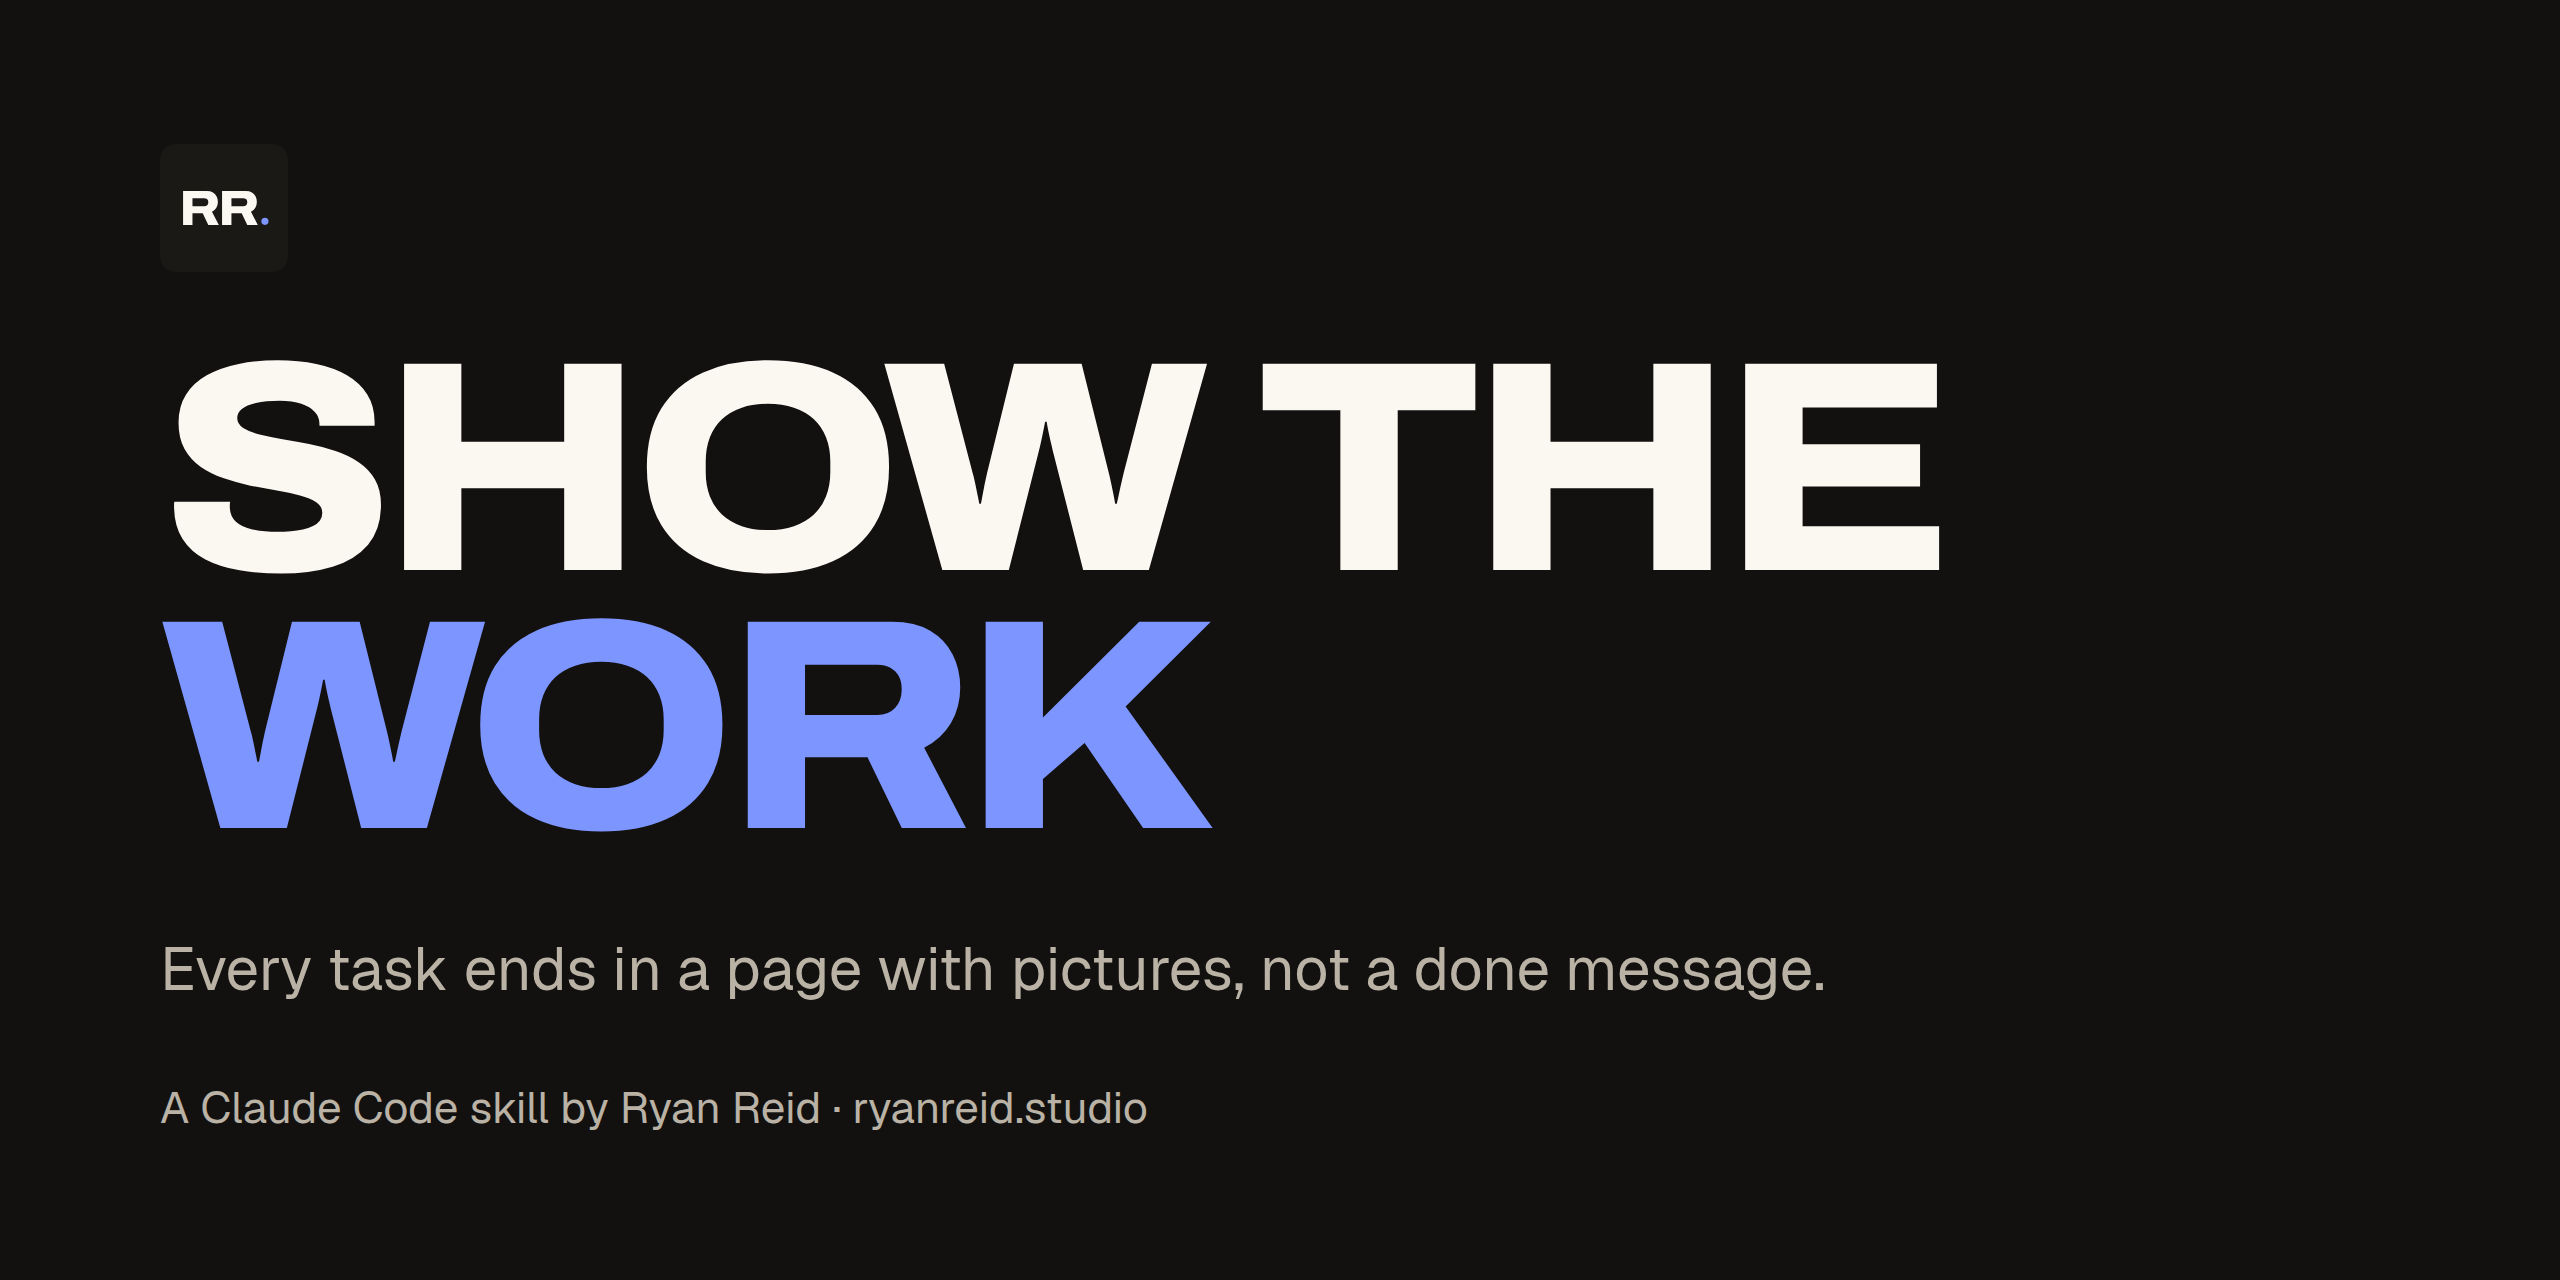
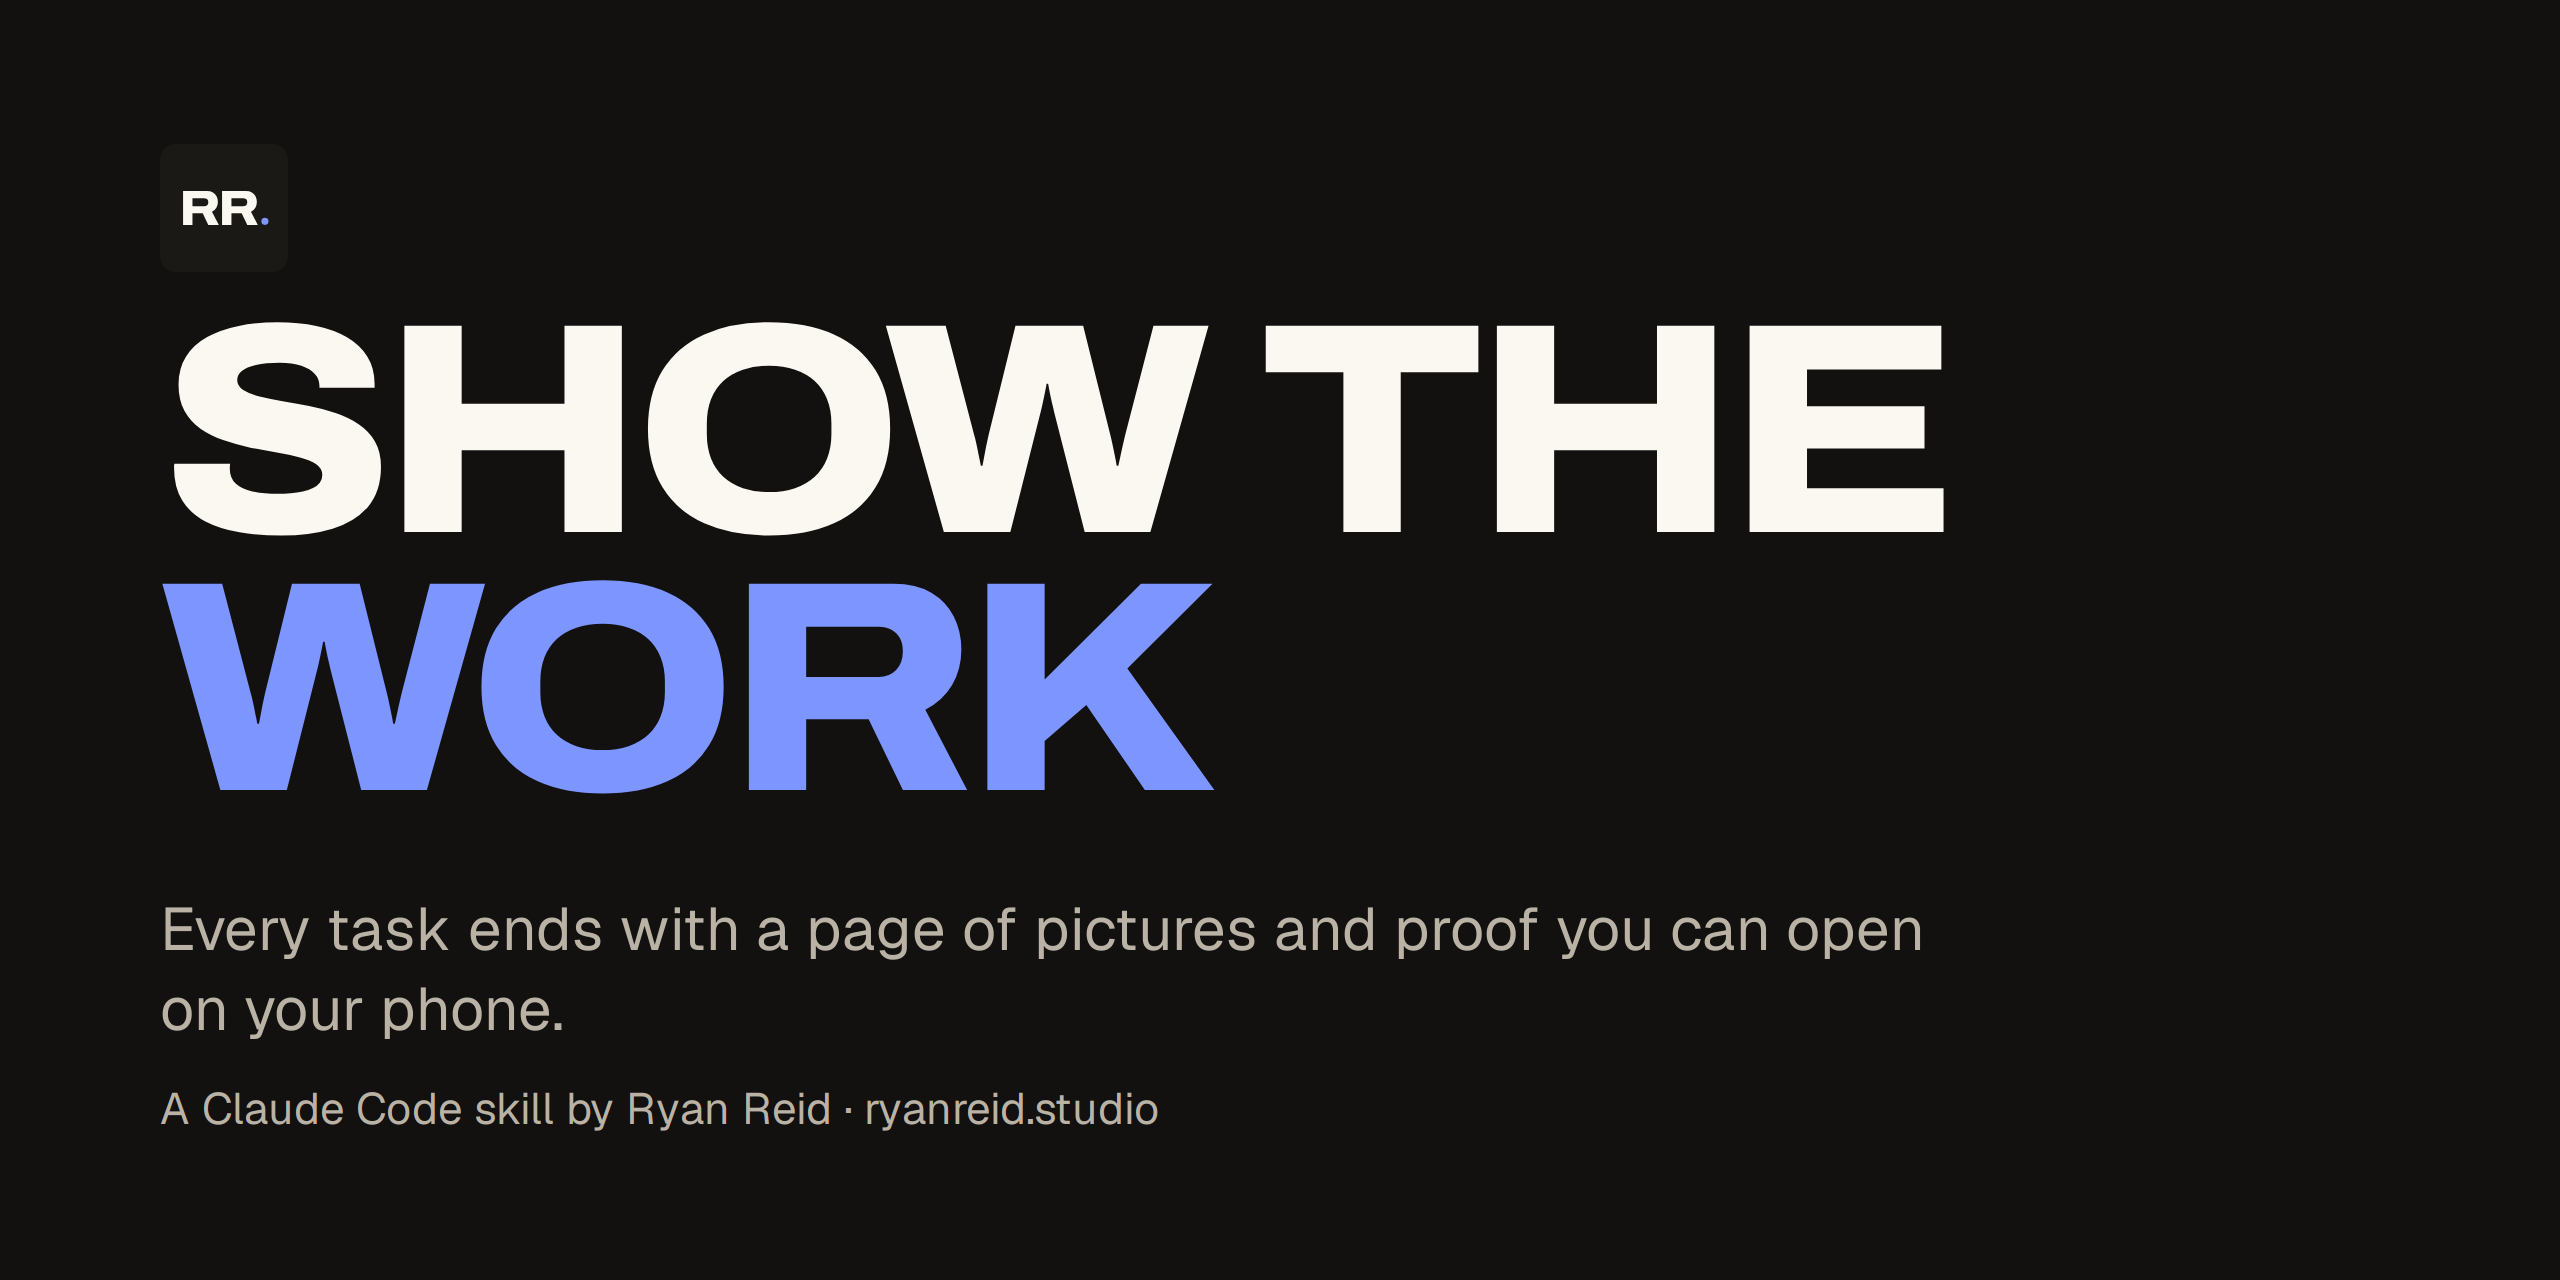
Sync from skills (source 0141654)

Changed region(s): [[0.0625, 0.25, 0.7812, 0.6562], [0.0625, 0.7188, 0.75, 0.8125], [0.0625, 0.8438, 0.4688, 0.9062]]

diff --git a/README.md b/README.md
@@ -1,6 +1,15 @@
-<p align="center"><img src="assets/hero.png" alt="Show the work: a Claude Code skill" width="100%"></p>
+<!-- Generated by build_readme.py from template/README.md.tmpl and show-the-work/readme.toml. Edit those, not this file. -->
+<p align="center"><img src="assets/hero.png" alt="Show the work: a Claude Code skill by Ryan Reid" width="100%"></p>
 
-A Claude Code skill that makes a session end with a page you can open on your phone, with pictures, instead of a "done" message.
+<p align="center">
+  <a href="https://code.claude.com/docs/en/skills"><img alt="Claude Code skill" src="https://img.shields.io/badge/Claude_Code-skill-2348d6?style=flat-square"></a>
+  <a href="LICENSE"><img alt="MIT license" src="https://img.shields.io/badge/license-MIT-1a1916?style=flat-square"></a>
+  <a href="https://github.com/RyanWReid/show-the-work/stargazers"><img alt="GitHub stars" src="https://img.shields.io/github/stars/RyanWReid/show-the-work?style=flat-square&color=1a1916&label=stars"></a>
+</p>
+
+<p align="center"><b>Claude Code ends each task with a result page you can check on your phone.</b><br>Pictures first, then the reason for each change and the proof.</p>
+
+<p align="center"><a href="#install">Install</a> · <a href="#use">Use</a> · <a href="#example">Example</a> · <a href="#how-it-works">How it works</a></p>
 
 ## Install
 
@@ -8,43 +17,42 @@ A Claude Code skill that makes a session end with a page you can open on your ph
 git clone https://github.com/RyanWReid/show-the-work ~/.claude/skills/show-the-work
 ```
 
-Claude Code picks it up on the next session. It loads when a task produced something you should see or decide on.
+Start a new Claude Code session. The skill loads by itself when a task produced something you should see or decide on.
 
-## What it does
+## Use
 
-Every substantial task ends with a result page that has:
+Work as usual. When a task is done, Claude publishes a page and replies in three to five lines with the link.
 
-1. A one-line outcome, and the one thing needed from you (or "nothing").
-2. Pictures. Before and after screenshots for UI work (390 px first, then 1440), real photos for places, a chart when there are more than about five numbers.
-3. The reason for each change, in plain words.
-4. Evidence: links, test output quoted from the log, prices with the time they were checked.
-5. Open questions as a short list.
+You can also ask for it:
 
-The reply in chat stays at three to five lines. The page carries the detail.
+> Show the work for this change.
 
 ## Example
 
-<table>
-<tr>
-<td width="50%"><img src="assets/before.png" alt="Before: a done message with no picture"></td>
-<td width="50%"><img src="assets/after.png" alt="After: a result page with pictures and evidence"></td>
-</tr>
-<tr>
-<td>Before: a session ends with text and nothing to check.</td>
-<td>After: the result page, with a picture, the reason and the evidence.</td>
-</tr>
-</table>
+<p align="center"><img src="assets/demo.gif" alt="A plain done message next to a real result page scrolling on a phone" width="100%"></p>
 
-These two screens were made for the job that published this repo.
+Left, the kind of reply a session usually ends with. Right, the real result page from a test of three GitHub repos on 23 November 2026, scrolled at phone width. It opens on the verdict, then shows the token counts from three runs of each job, a chart and the cost in dollars.
 
-## Notes
+## How it works
 
-- If something was not checked, the page says "not verified" next to it.
-- No credentials, tokens or private details go on a page.
-- The skill publishes with whatever page tool you have. It does not require a specific one.
+Every result page has five parts.
 
-## About
+1. **Outcome.** One line: what happened, and the one thing needed from you (or "nothing").
+2. **Pictures.** Before and after screenshots for UI work, at 390 px first and then 1440. Real photos for places. A chart when there are more than about five numbers.
+3. **Why.** The reason for each change, in plain words.
+4. **Proof.** Links, test output quoted from the log, prices with the time they were checked.
+5. **Open questions.** A short list at the end.
 
-I build with AI every day and show what held up. More at [ryanreid.studio](https://ryanreid.studio).
+Anything that was not checked says "not verified" next to it. Credentials, tokens and private details stay off the page. Pages are published with Claude's Artifact tool; any page you can open on a phone works too.
 
-MIT licence.
+## By Ryan Reid
+
+<img src="assets/rr.png" alt="RR." width="48" align="left">
+
+I build with AI every day and show you what actually held up, with the receipts. More at **[ryanreid.studio](https://ryanreid.studio)**.
+
+Also by me: [find-existing](https://github.com/RyanWReid/find-existing), which makes Claude search published skills and GitHub before it builds a new tool.
+
+<br clear="left">
+
+MIT license.
